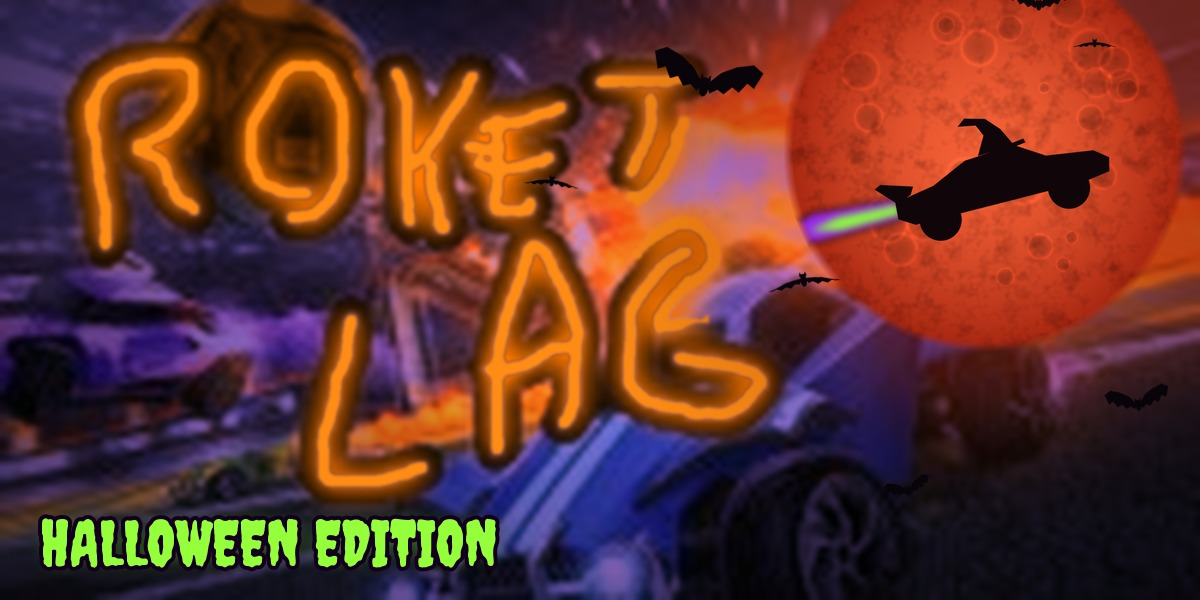
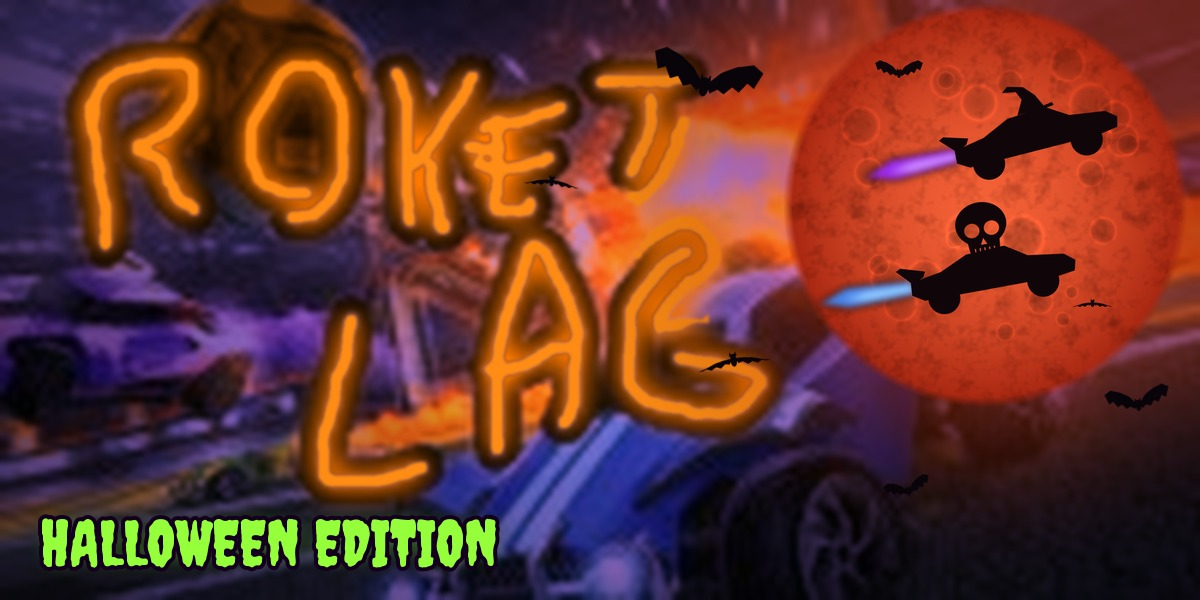
Cover: the Skeletons' car with its giant skull chases the Witches' across the moon; purple trail for the Witches, blue for the Skeletons

Changed region(s): [[0.6475, 0.0, 1.0, 0.81], [0.5858, 0.57, 0.6167, 0.63]]

diff --git a/description.md b/description.md
@@ -2,7 +2,7 @@
 
 Car soccer under a Halloween moon: rocket cars, a haunted glass dome, and a **giant jack-o'-lantern** for a ball. 🚀 **Kick the pumpkin, score a ghoul!** 🎃👻
 
-- 🧙♀ **The Witches** drive in pointy hats, leaving trails of purple and slime green fire behind them.
+- 🧙♀ **The Witches** drive in pointy hats, leaving trails of purple fire behind them.
 - 💀 **The Skeletons** drive wearing a giant skull, burning with pale blue soul fire.
 - 🎃 **The ball** is a huge pumpkin with a glowing carved face and a candle flickering inside. It *bonks* when you hit it!
 - ⚽ **Score a GHOUL!** The pumpkin bursts into a shower of little pumpkins, ghosts spiral out of the goal wailing, and a swarm of bats (or a rattle of bones) fills the arena.
